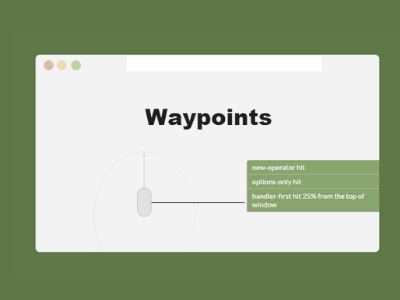
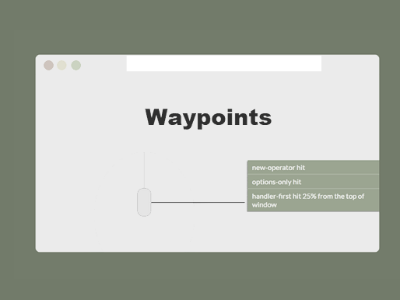
blog strip

diff --git a/styles/styles.css b/styles/styles.css
@@ -1006,7 +1006,7 @@ section.overview.expand {
 .gallery1 .galleryPic,
 .gallery2 .galleryPic {
   margin: 20px;
-  background-color: white;
+  background-color: #f8f8f8;
   -webkit-box-shadow: 2px 2px 10px 1px black;
           box-shadow: 2px 2px 10px 1px black;
 }
@@ -1035,6 +1035,7 @@ section.overview.expand {
   transition: -webkit-transform 1.5s;
   transition: transform 1.5s;
   transition: transform 1.5s, -webkit-transform 1.5s;
+  padding: 2%;
   border: 5px solid #7f6b53;
 }
 
@@ -1244,7 +1245,6 @@ section.overview.expand {
 .blogImage img {
   -o-object-fit: cover;
      object-fit: cover;
-  padding: 1%;
 }
 
 .blogContent {
@@ -1311,7 +1311,7 @@ section.overview.expand {
 }
 
 .blogBar {
-  height: 3px;
+  height: 4px;
   border-radius: 3px;
   width: 0;
   background-color: #545454;
@@ -1321,6 +1321,64 @@ section.overview.expand {
 
 .blogBar.expand {
   width: 100%;
+}
+
+.contact {
+  width: 100%;
+  height: 400px;
+  background-color: #212121;
+}
+
+.wrapper.contact {
+  width: 100%;
+  padding: 60px 80px 40px;
+  display: -webkit-box;
+  display: -ms-flexbox;
+  display: flex;
+  -webkit-box-pack: justify;
+      -ms-flex-pack: justify;
+          justify-content: space-between;
+}
+
+.container {
+  width: 30%;
+}
+
+.container h3 {
+  width: 100%;
+  font-family: "Oswald", sans-serif;
+  font-size: 3rem;
+  font-weight: normal;
+  color: #f8f8f8;
+  letter-spacing: normal;
+  line-height: normal;
+  text-align: left;
+  text-transform: uppercase;
+}
+
+.container ul {
+  margin-top: 40px;
+  padding-left: 2%;
+  font-family: 'Domine', serif;
+  font-size: 1.8rem;
+  font-weight: normal;
+  color: #f8f8f8;
+  letter-spacing: 1.5;
+  line-height: 1.6;
+  text-align: left;
+}
+
+.container ul li {
+  margin-top: 10px;
+}
+
+.menuContainer {
+  width: 40%;
+  padding-left: 130px;
+}
+
+.socialContainer {
+  padding-left: 100px;
 }
 
 html {

diff --git a/index.html b/index.html
@@ -98,7 +98,6 @@
       </div>
     </nav>
 
-
     <main>
       <!-- -------------------------------------------- -->
       <!-------------------- OVERVIEW -------------------->
@@ -487,8 +486,36 @@
         </div>
       </section>
 
-      <section class="contact waypoint" id="contact">
-        <div class="wrapper contact"></div>
+      <section class="contact">
+        <div class="wrapper contact waypoint" id="contact">
+          <div class="container contactContainer">
+            <h3>contact</h3>
+            <ul>
+              <li>ania.m.pienio@gmail.com</li>
+              <li></li>
+              <li></li>
+            </ul>
+          </div>
+          <div class="container menuContainer">
+            <h3>menu</h3>
+            <ul>
+              <li>Home</li>
+              <li>About</li>
+              <li>Skills</li>
+              <li>Projects</li>
+              <li>Blog</li>
+            </ul>
+          </div>
+          <div class="container socialContainer">
+            <h3>social</h3>
+            <ul>
+              <li>Linkedin</li>
+              <li>Twitter</li>
+              <li>Facebook</li>
+              <li>Github</li>
+            </ul>
+          </div>
+        </div>
       </section>
     </main>
 

diff --git a/scripts/script.js b/scripts/script.js
@@ -48,19 +48,24 @@ app.sections = {
   },
   blog: {
     el: $("#blog"),
-    offset: 180,
+    offset: 300,
     delay: 500,
     run: function() {
       $(".blogBar").addClass("expand");
     }
+  },
+  contact: {
+    el: $("#contact"),
+    offset: -1000,
+    delay: 200,
+    run: function() {
+      console.log("hello");
+    }
   }
-  // contact: { el: $("#contact"), run: app.contact }
 };
 
 app.logo = $("#navLogo");
 app.currentWaypoint = app.sections.$logo;
-
-
 
 /****************************************************************/
 /*****************          ANIMATORS         *******************/
@@ -118,7 +123,7 @@ app.handleWaypoints = function() {
     function(direction) {
       direction === "up" ? app.resetAll() : "";
     },
-    { offset: "0%" }
+    { offset: "2%" }
   );
 };
 

diff --git a/styles/sections/_contact.scss b/styles/sections/_contact.scss
@@ -1,0 +1,38 @@
+.contact {
+  width: 100%;
+  height: 400px;
+  background-color: $charcoal;
+}
+
+.wrapper.contact {
+  width: 100%;
+  padding: 60px 80px 40px;
+  display: flex;
+  justify-content: space-between;
+}
+
+.container {
+  width: 30%;
+  h3 {
+    width: 100%;
+    @include Ossie(3rem, normal, $tint, normal, normal, left);
+    text-transform: uppercase;
+  }
+  ul {
+    margin-top: 40px;
+    padding-left: 2%;
+    @include Domi(1.8rem, normal, $tint, 1.5, 1.6, left);
+    li {
+      margin-top: 10px;
+    }
+  }
+}
+
+.menuContainer {
+  width: 40%;
+  padding-left: 130px;
+}
+
+.socialContainer {
+  padding-left: 100px;
+}

diff --git a/styles/sections/_projects.scss b/styles/sections/_projects.scss
@@ -41,7 +41,7 @@
 .gallery1 .galleryPic,
 .gallery2 .galleryPic {
   margin: 20px;
-  background-color: white;
+  background-color: $tint;
   box-shadow: 2px 2px 10px 1px black;
   a {
     display: flex;
@@ -54,6 +54,7 @@
     }
     img {
       transition: transform 1.5s;
+      padding: 2%;
       border: 5px solid #7f6b53;
     }
     h3 {
@@ -64,6 +65,8 @@
     }
   }
 }
+
+
 
 .gallery1 .galleryPic h3 {
   transform: rotate(-90deg);

diff --git a/styles/sass/styles.scss b/styles/sass/styles.scss
@@ -14,6 +14,7 @@
 @import "../sections/projects";
 @import "../sections/education";
 @import "../sections/blog";
+@import "../sections/contact";
 
 html {
   font-size: 62.5%;
@@ -24,7 +25,6 @@ html {
 .wrapper {
   max-width: 1600px;
   margin: 0 auto;
-  // border: 1px solid fuchsia;
 }
 
 // headings

diff --git a/styles/sections/_blog.scss b/styles/sections/_blog.scss
@@ -36,7 +36,6 @@
   width: 40%;
   img {
     object-fit: cover;
-    padding: 1%;
   }
 }
 
@@ -74,7 +73,7 @@
 }
 
 .blogBar {
-  height: 3px;
+  height: 4px;
   border-radius: 3px;
   width: 0;
   background-color: lighten($charcoal, 20);

diff --git a/styles/partials/_variables.scss b/styles/partials/_variables.scss
@@ -3,4 +3,4 @@ $grey2: #e7e7e7;
 $charcoal: #212121;
 $tint: #f8f8f8; 
 $font: #191919;
-$accent: #f89010;
+$accent: #F8CC96;
